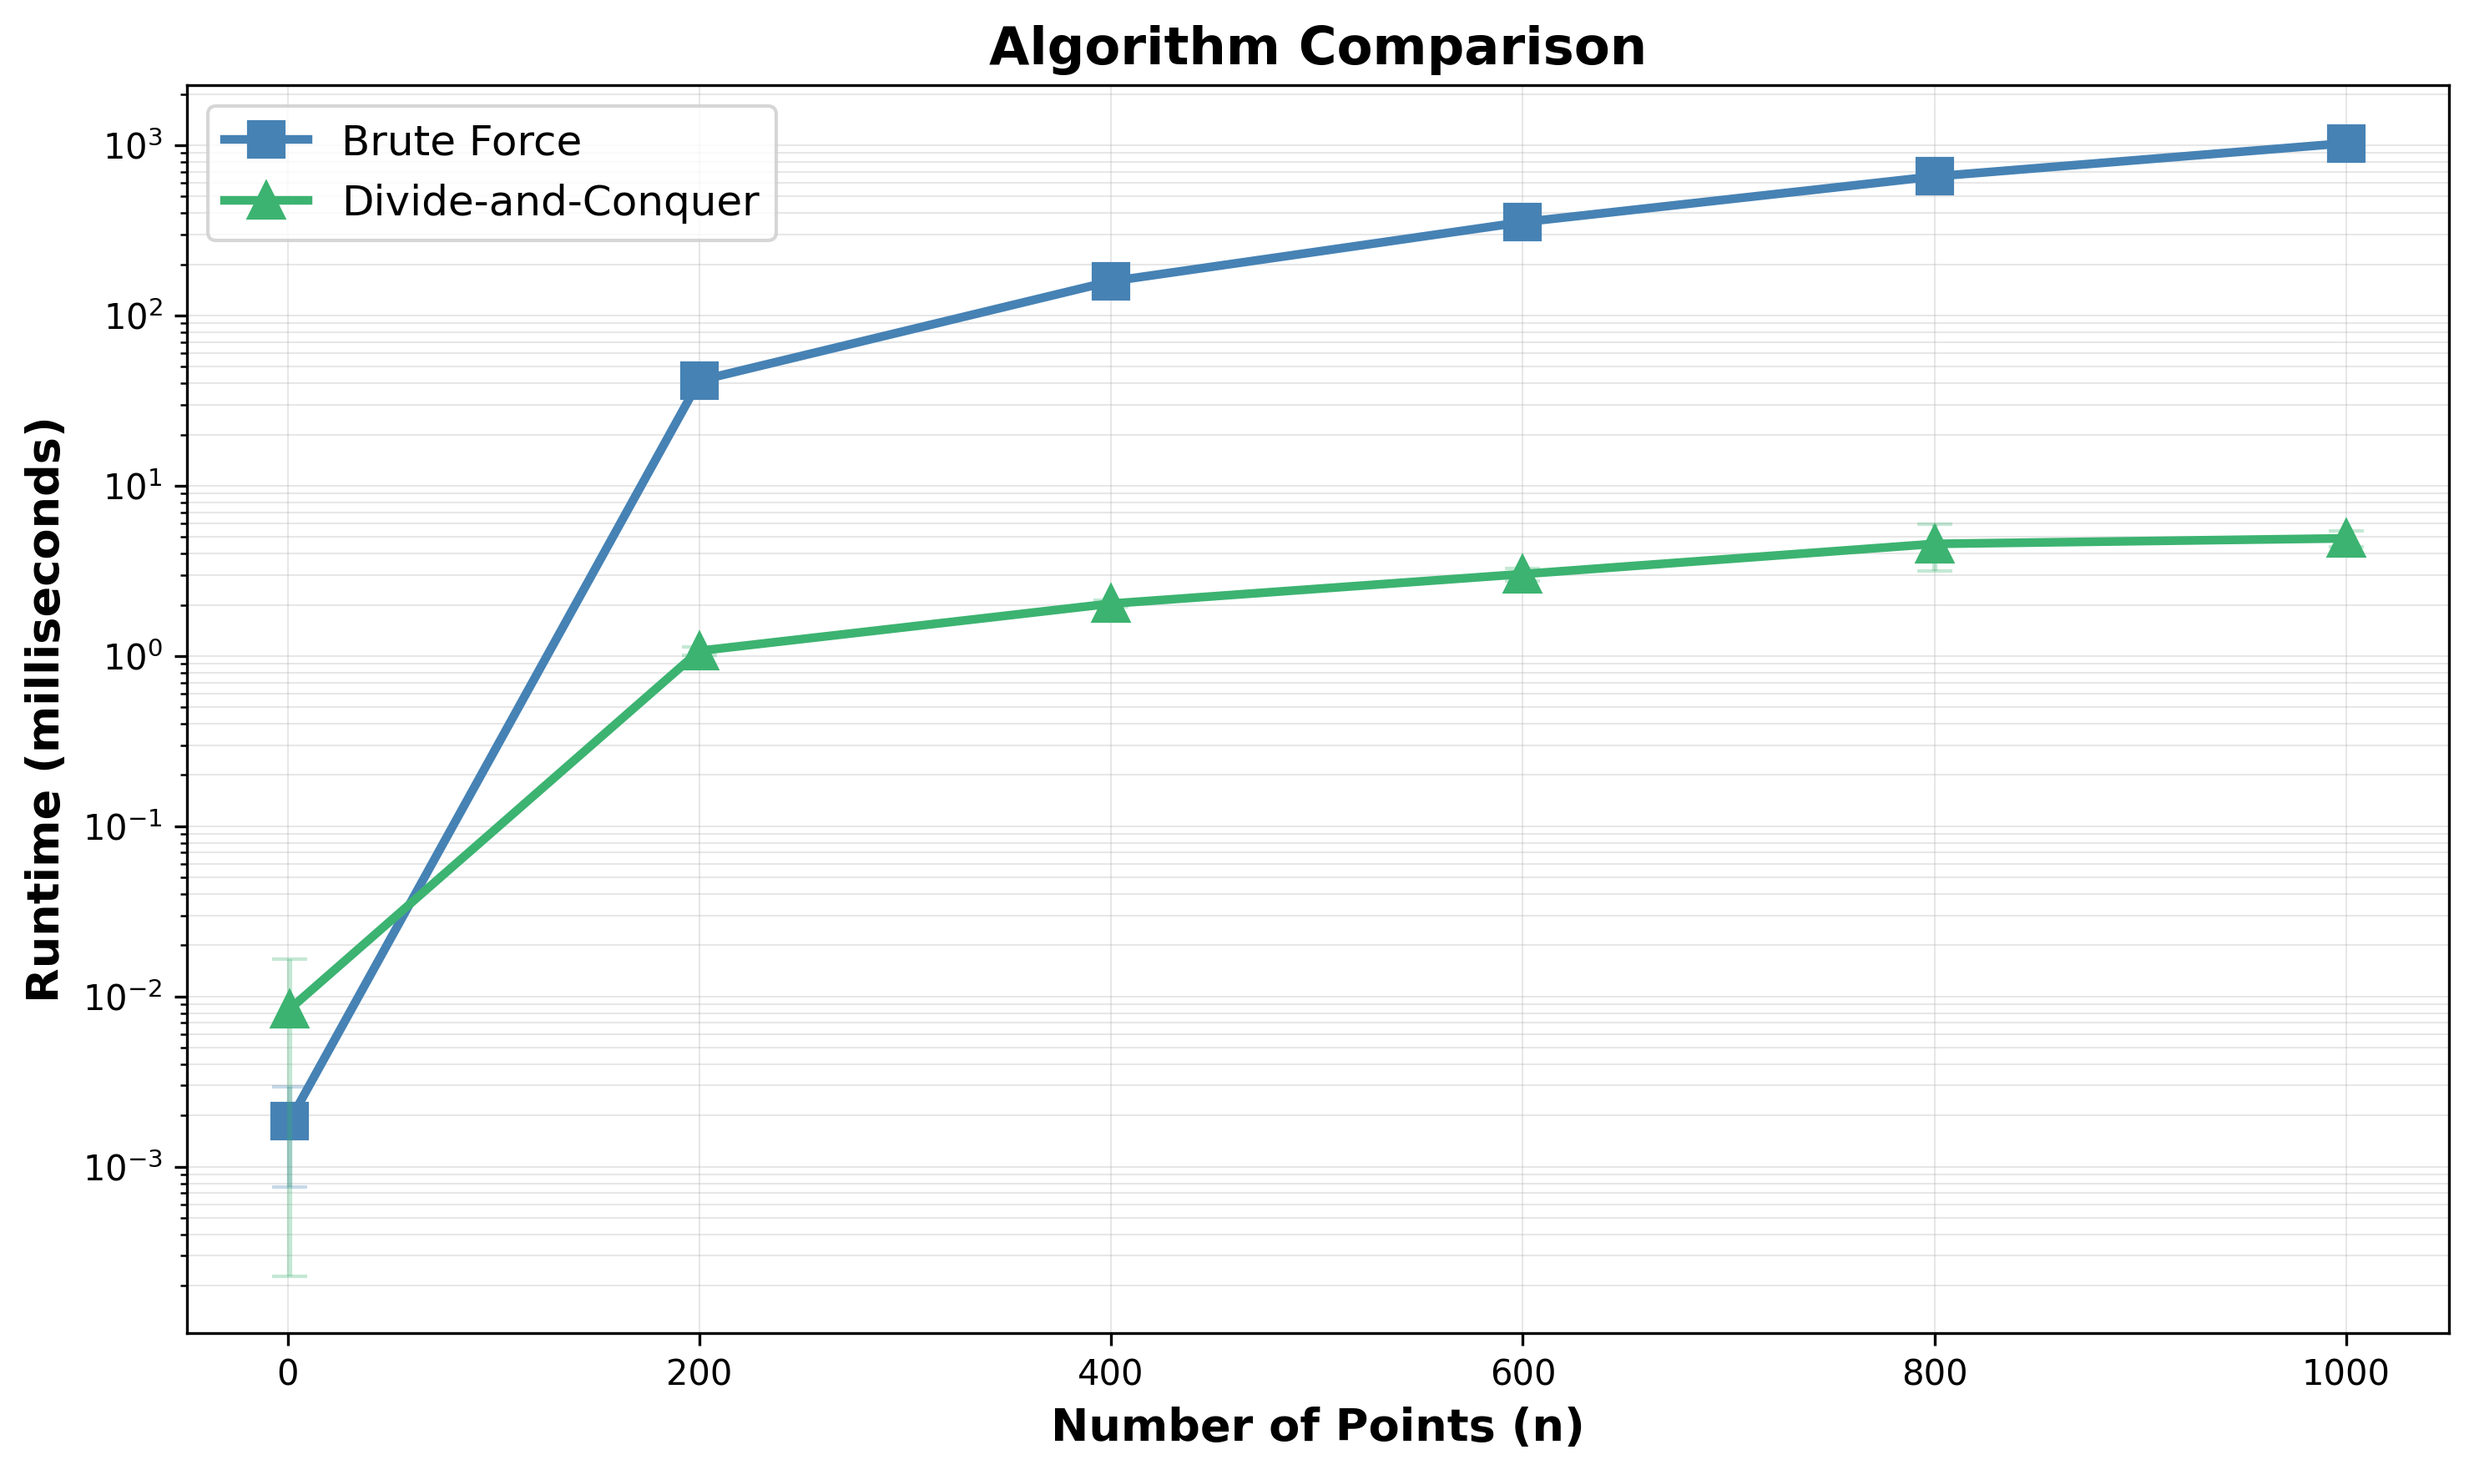
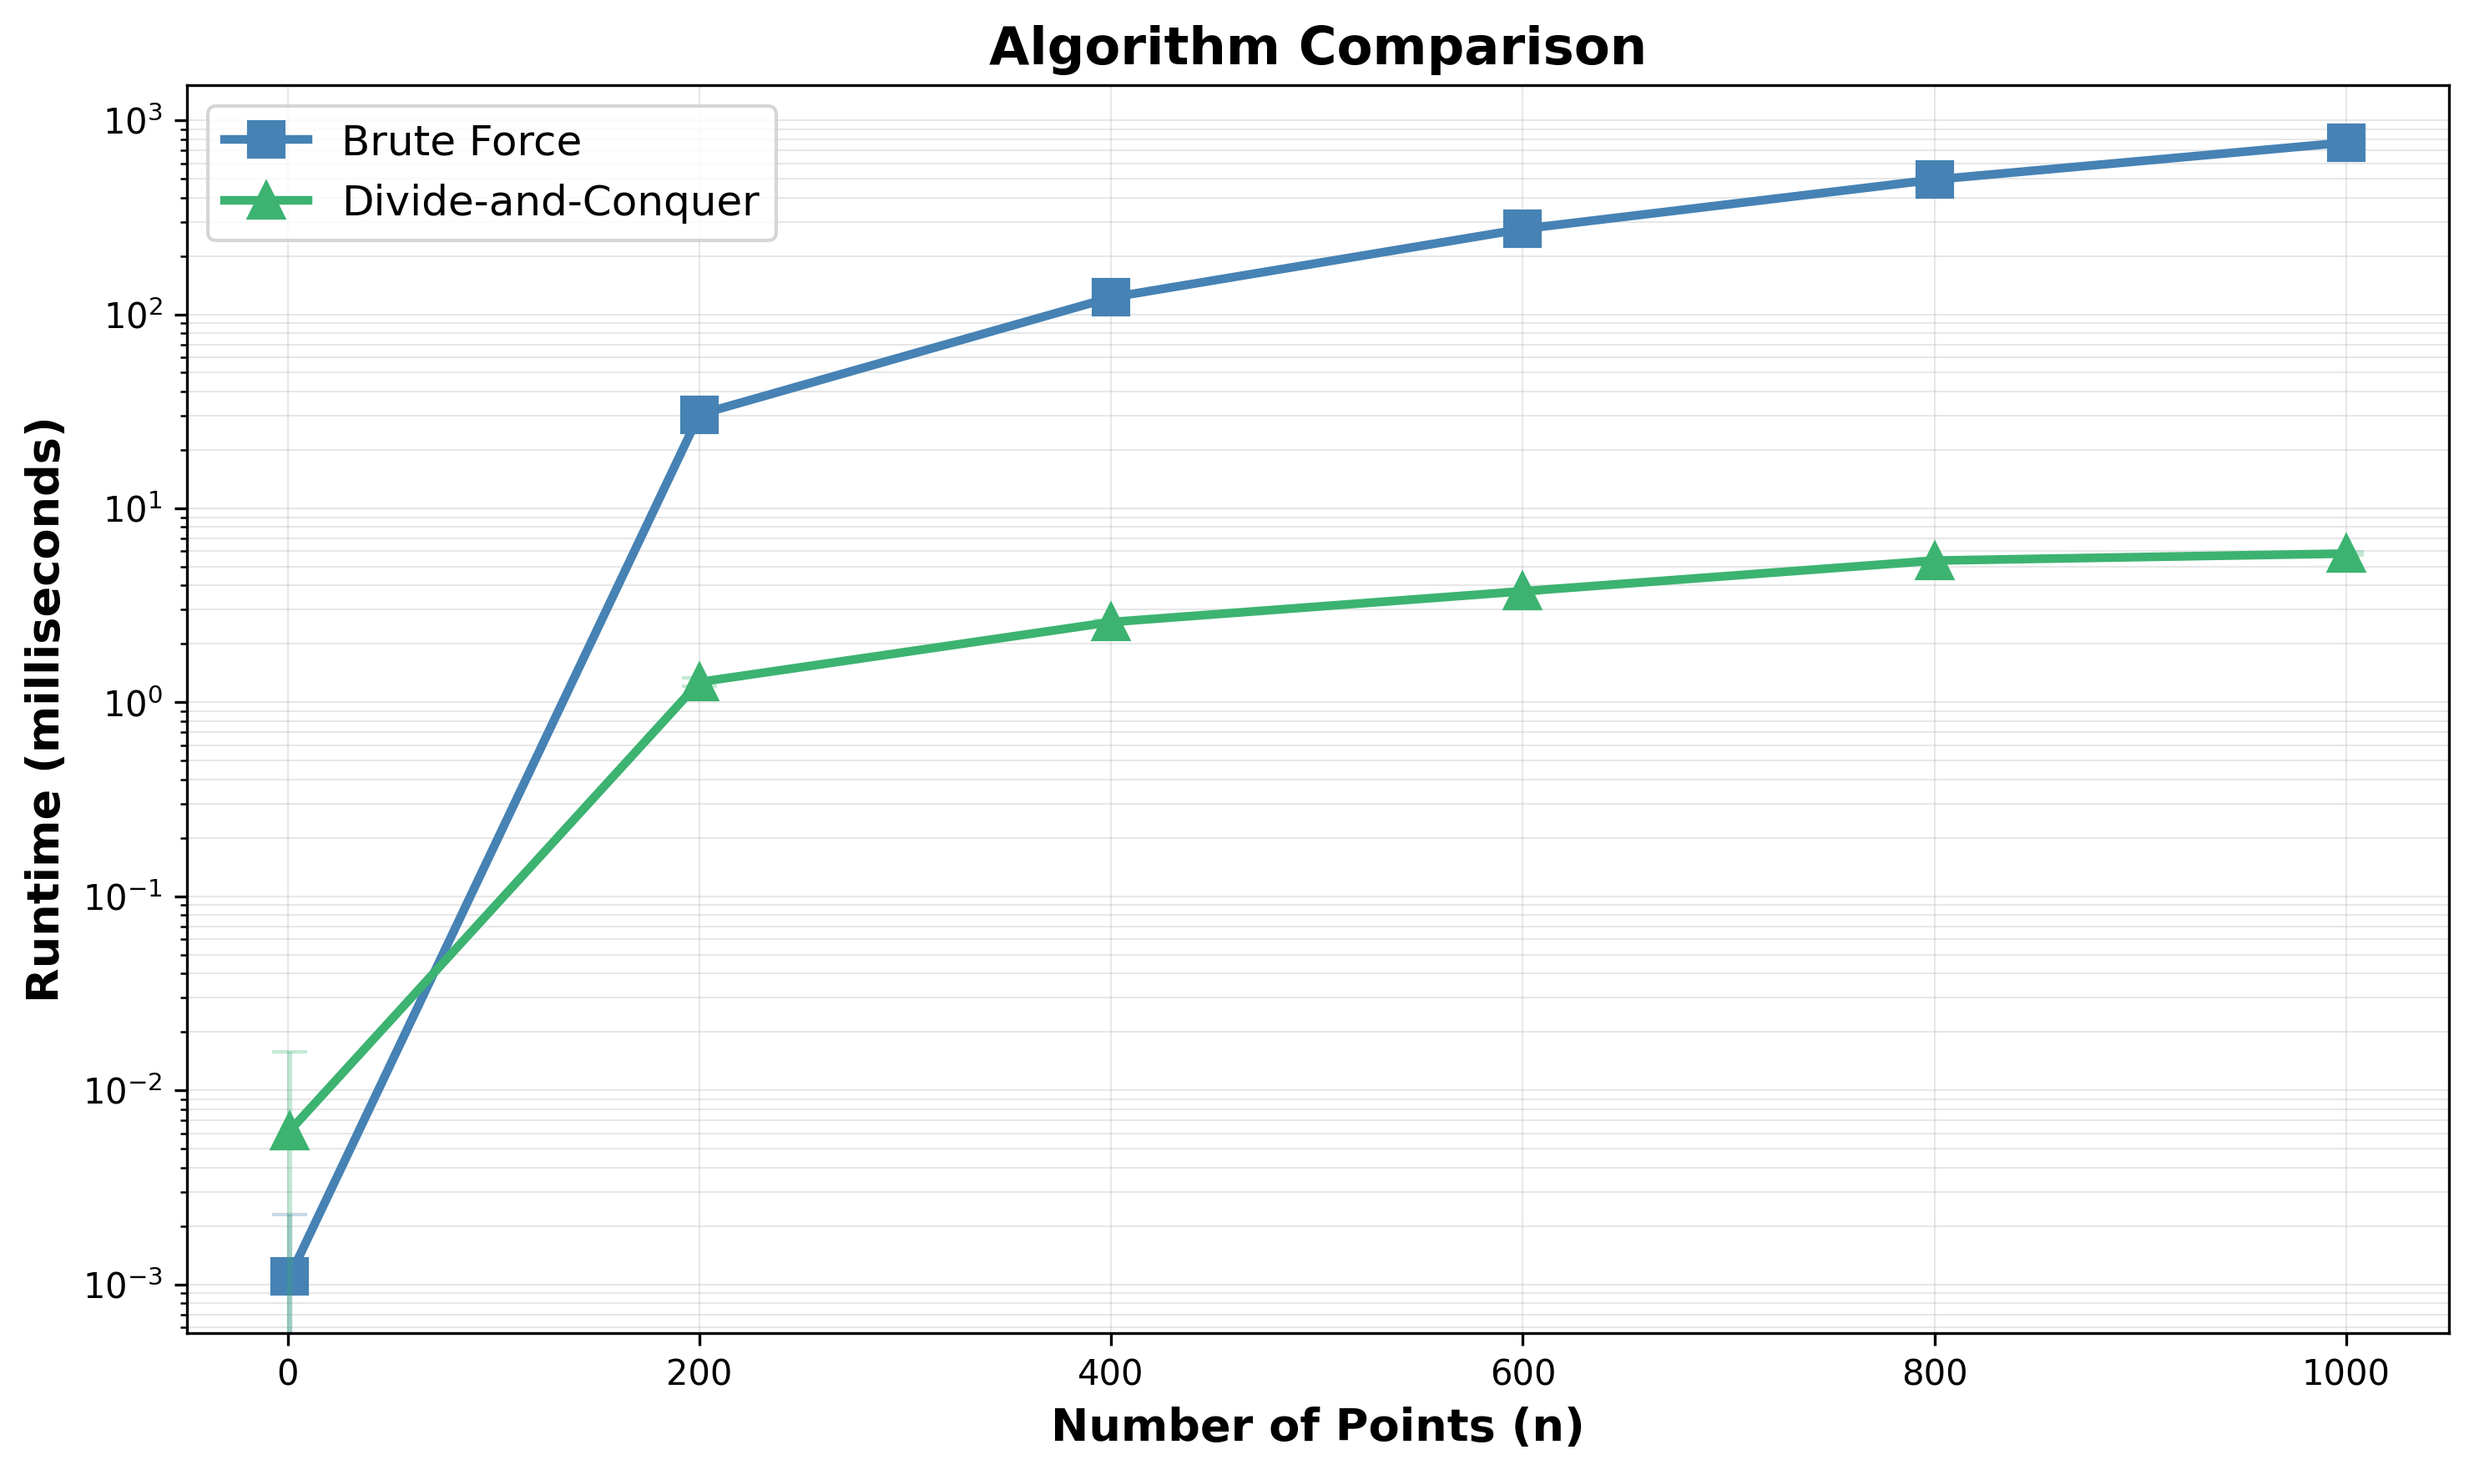
updated plotting for nlogn^2

diff --git a/make_plots.py b/make_plots.py
@@ -59,7 +59,7 @@ plt.savefig('brute_force_plot.png', dpi=300, bbox_inches='tight')
 print("✓ Saved: brute_force_plot.png")
 
 # ============================================================================
-# PLOT 2: Divide and Conquer Algorithm
+# PLOT 2: Divide and Conquer Algorithm with n(log n)² trendline
 # ============================================================================
 fig2, ax2 = plt.subplots(figsize=(10, 6))
 
@@ -72,14 +72,16 @@ for i in range(1, 11):
 ax2.plot(n_values, dc_means, 'o-', color='darkorange', linewidth=3, 
          markersize=10, label='Average Time', zorder=5)
 
-# Fit n log n trendline
-def nlogn(n, a, b):
-    return a * n * np.log(n) + b
+# Fit n(log n)² trendline
+def nlogn_squared(n, a, b):
+    """Model: a * n * (log n)² + b"""
+    return a * n * (np.log(n) ** 2) + b
 
-popt, _ = curve_fit(nlogn, n_values[1:], dc_means[1:])  # Skip n=1
-nlogn_fit = nlogn(n_fit, *popt)
-ax2.plot(n_fit, nlogn_fit, '--', color='cornflowerblue', linewidth=2.5, 
-         label='n log n trendline', zorder=4)
+# Fit using points with n > 1 (to avoid log(1) = 0)
+popt, _ = curve_fit(nlogn_squared, n_values[1:], dc_means[1:])
+nlogn2_fit = nlogn_squared(n_fit, *popt)
+ax2.plot(n_fit, nlogn2_fit, '--', color='cornflowerblue', linewidth=2.5, 
+         label='n (log n)² trendline', zorder=4)
 
 ax2.set_xlabel('Number of Points (n)', fontsize=13, fontweight='bold')
 ax2.set_ylabel('Runtime (milliseconds)', fontsize=13, fontweight='bold')
@@ -150,7 +152,7 @@ print("✓ Saved: speedup_plot.png")
 print("\n" + "="*60)
 print("SUCCESS! All plots created:")
 print("  1. brute_force_plot.png")
-print("  2. divide_conquer_plot.png")
+print("  2. divide_conquer_plot.png (with n(log n)² trendline)")
 print("  3. comparison_plot.png")
 print("  4. speedup_plot.png")
 print("="*60)
@@ -160,3 +162,7 @@ print("\nKEY STATISTICS:")
 print(f"  Speedup at n=500: {speedup[-1]:.1f}x faster")
 print(f"  BF runtime at n=500: {bf_means[-1]:.2f} milliseconds")
 print(f"  D&C runtime at n=500: {dc_means[-1]:.4f} milliseconds")
+
+# Print fitted parameters for n(log n)²
+print(f"\nFITTED n(log n)² MODEL:")
+print(f"  f(n) = {popt[0]:.6f} * n * (log n)² + {popt[1]:.6f}")
